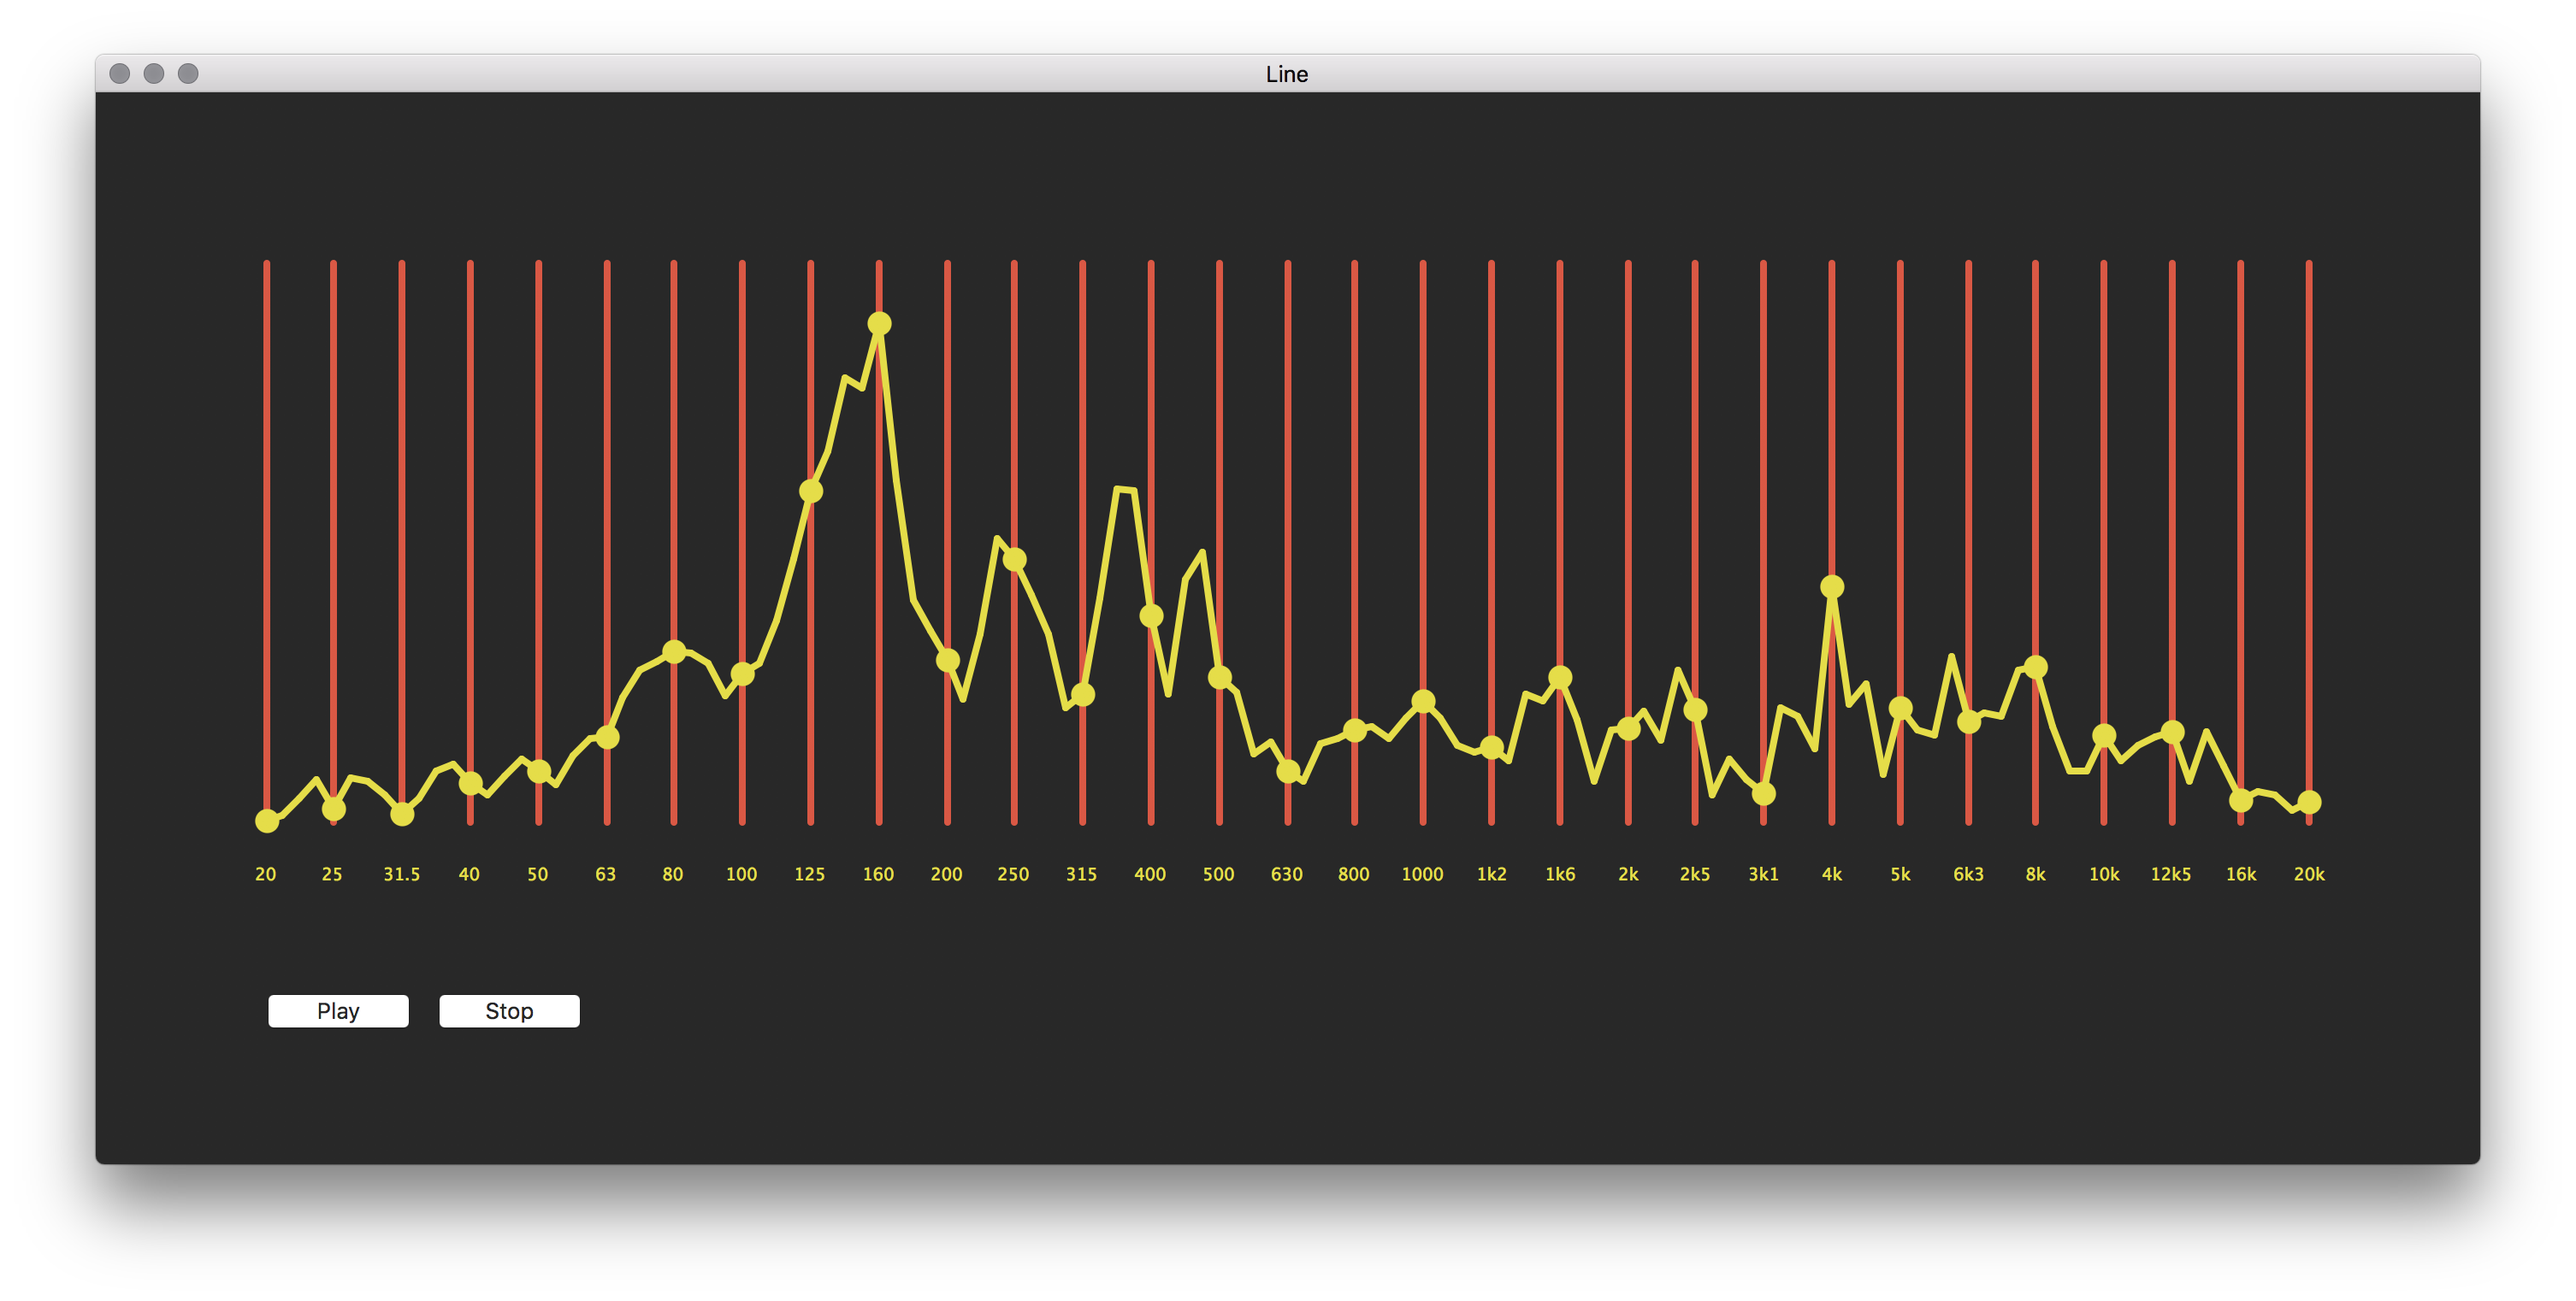
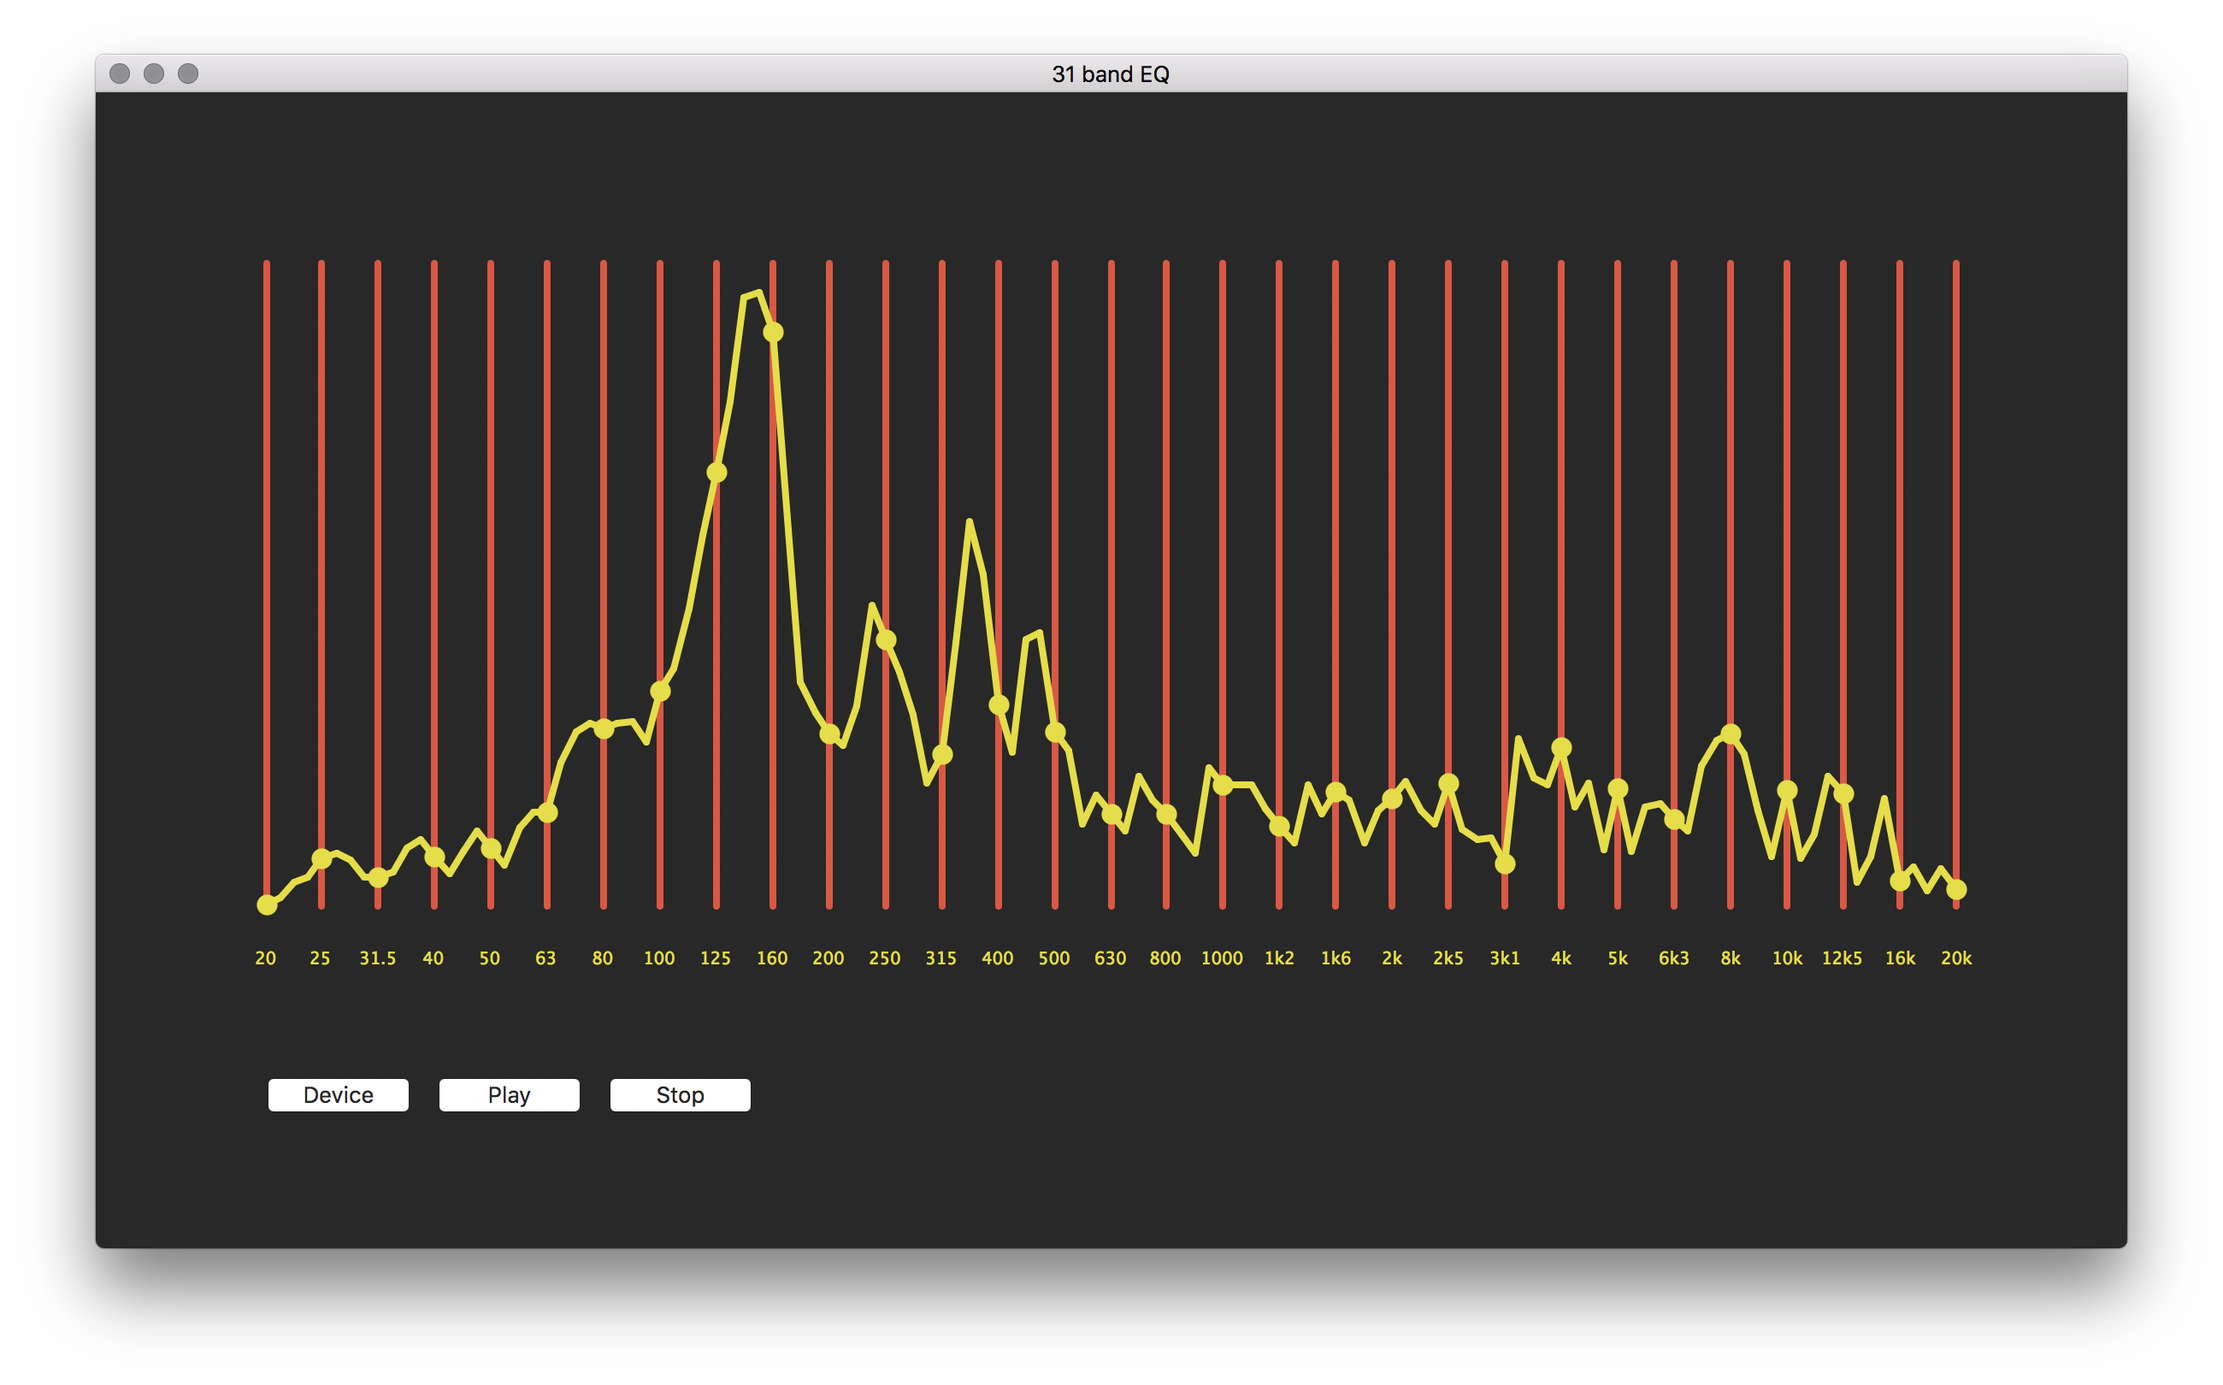
Set window title

Changed region(s): [[0.0935, 0.1853, 0.9035, 0.7102], [0.0312, 0.0309, 0.9658, 0.9264], [0.0935, 0.7411, 0.3427, 0.8029]]

diff --git a/frequencyAnalyzer.py b/frequencyAnalyzer.py
@@ -6,7 +6,7 @@ import pyaudio
 import numpy as np
 import wave
 import audioop
-import time
+import time, os
 
 import wx
 from ynlib.maths import Interpolate
@@ -283,6 +283,8 @@ class Example(wx.Frame):
 			pathname = fileDialog.GetPath()
 			try:
 				frequencies = plistlib.readPlist(pathname)
+
+				self.SetTitle(os.path.basename(os.path.splitext(pathname)[0]))
 
 				interpolatedFrequencies = []
 				for i, f in enumerate(frequencies):
